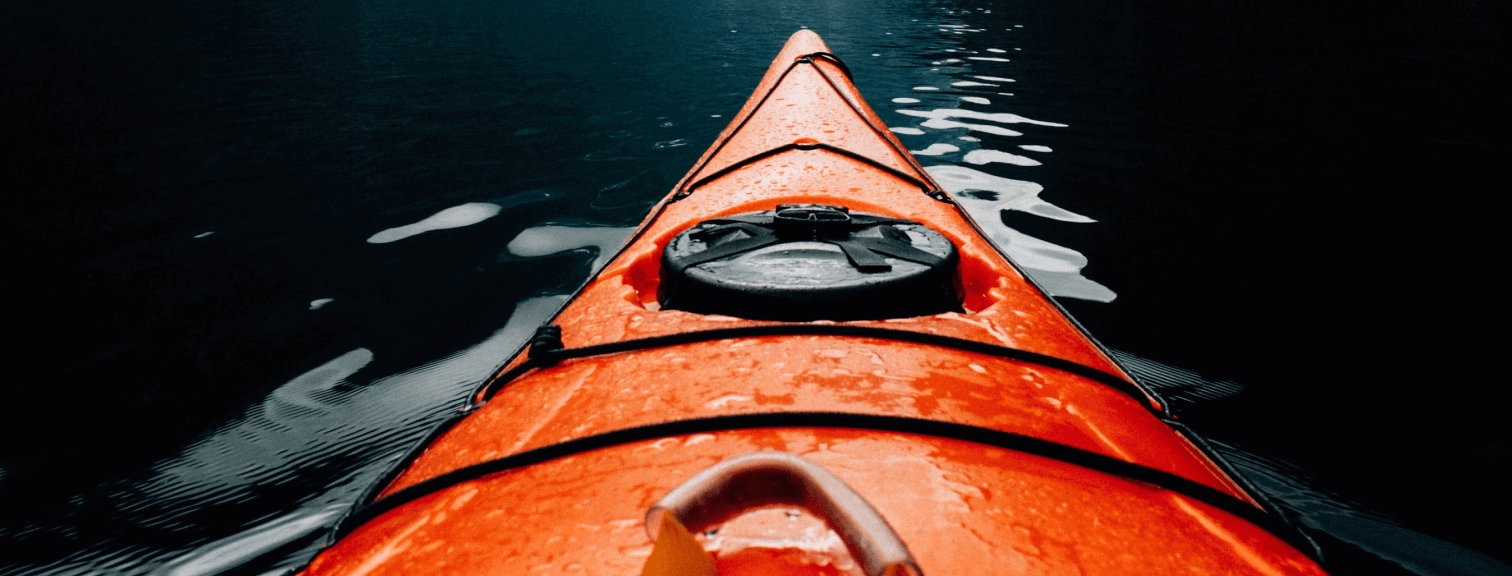
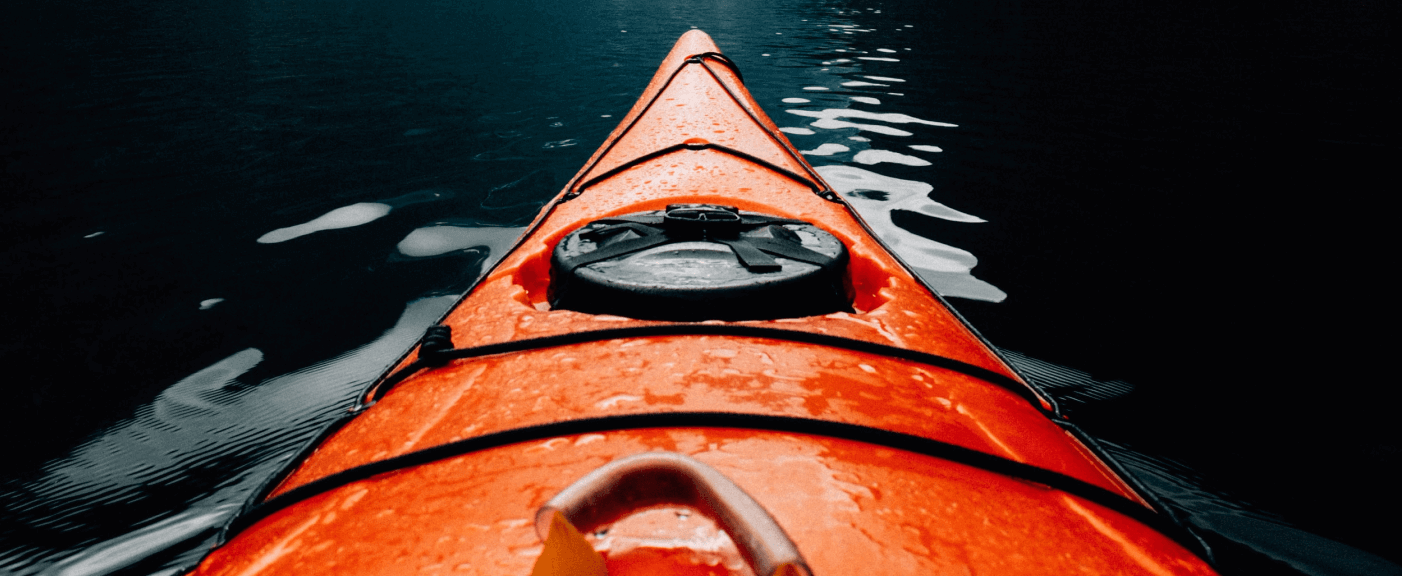
feat: guide section min-height added to improve mobile design

diff --git a/components/Guide.tsx b/components/Guide.tsx
@@ -27,7 +27,7 @@ const Guide = () => {
                     alt="boat"
                     width={1440}
                     height={580}
-                    className="w-full object-cover object-center 2xl:rounded-5xl"
+                    className="w-full object-cover object-center 2xl:rounded-5xl min-h-[500px] bg-center"
                 />
 
                 <div className="absolute flex bg-white py-8 pl-5 pr-7 gap-3 rounded-3xl border shadow-md md:left-[5%] lg:top-20">

diff --git a/app/page.tsx b/app/page.tsx
@@ -4,8 +4,6 @@ import GetApp from "@/components/GetApp";
 import Guide from "@/components/Guide";
 import Hero from "@/components/Hero";
 
-
-
 export default function Home() {
   return (
     <>
